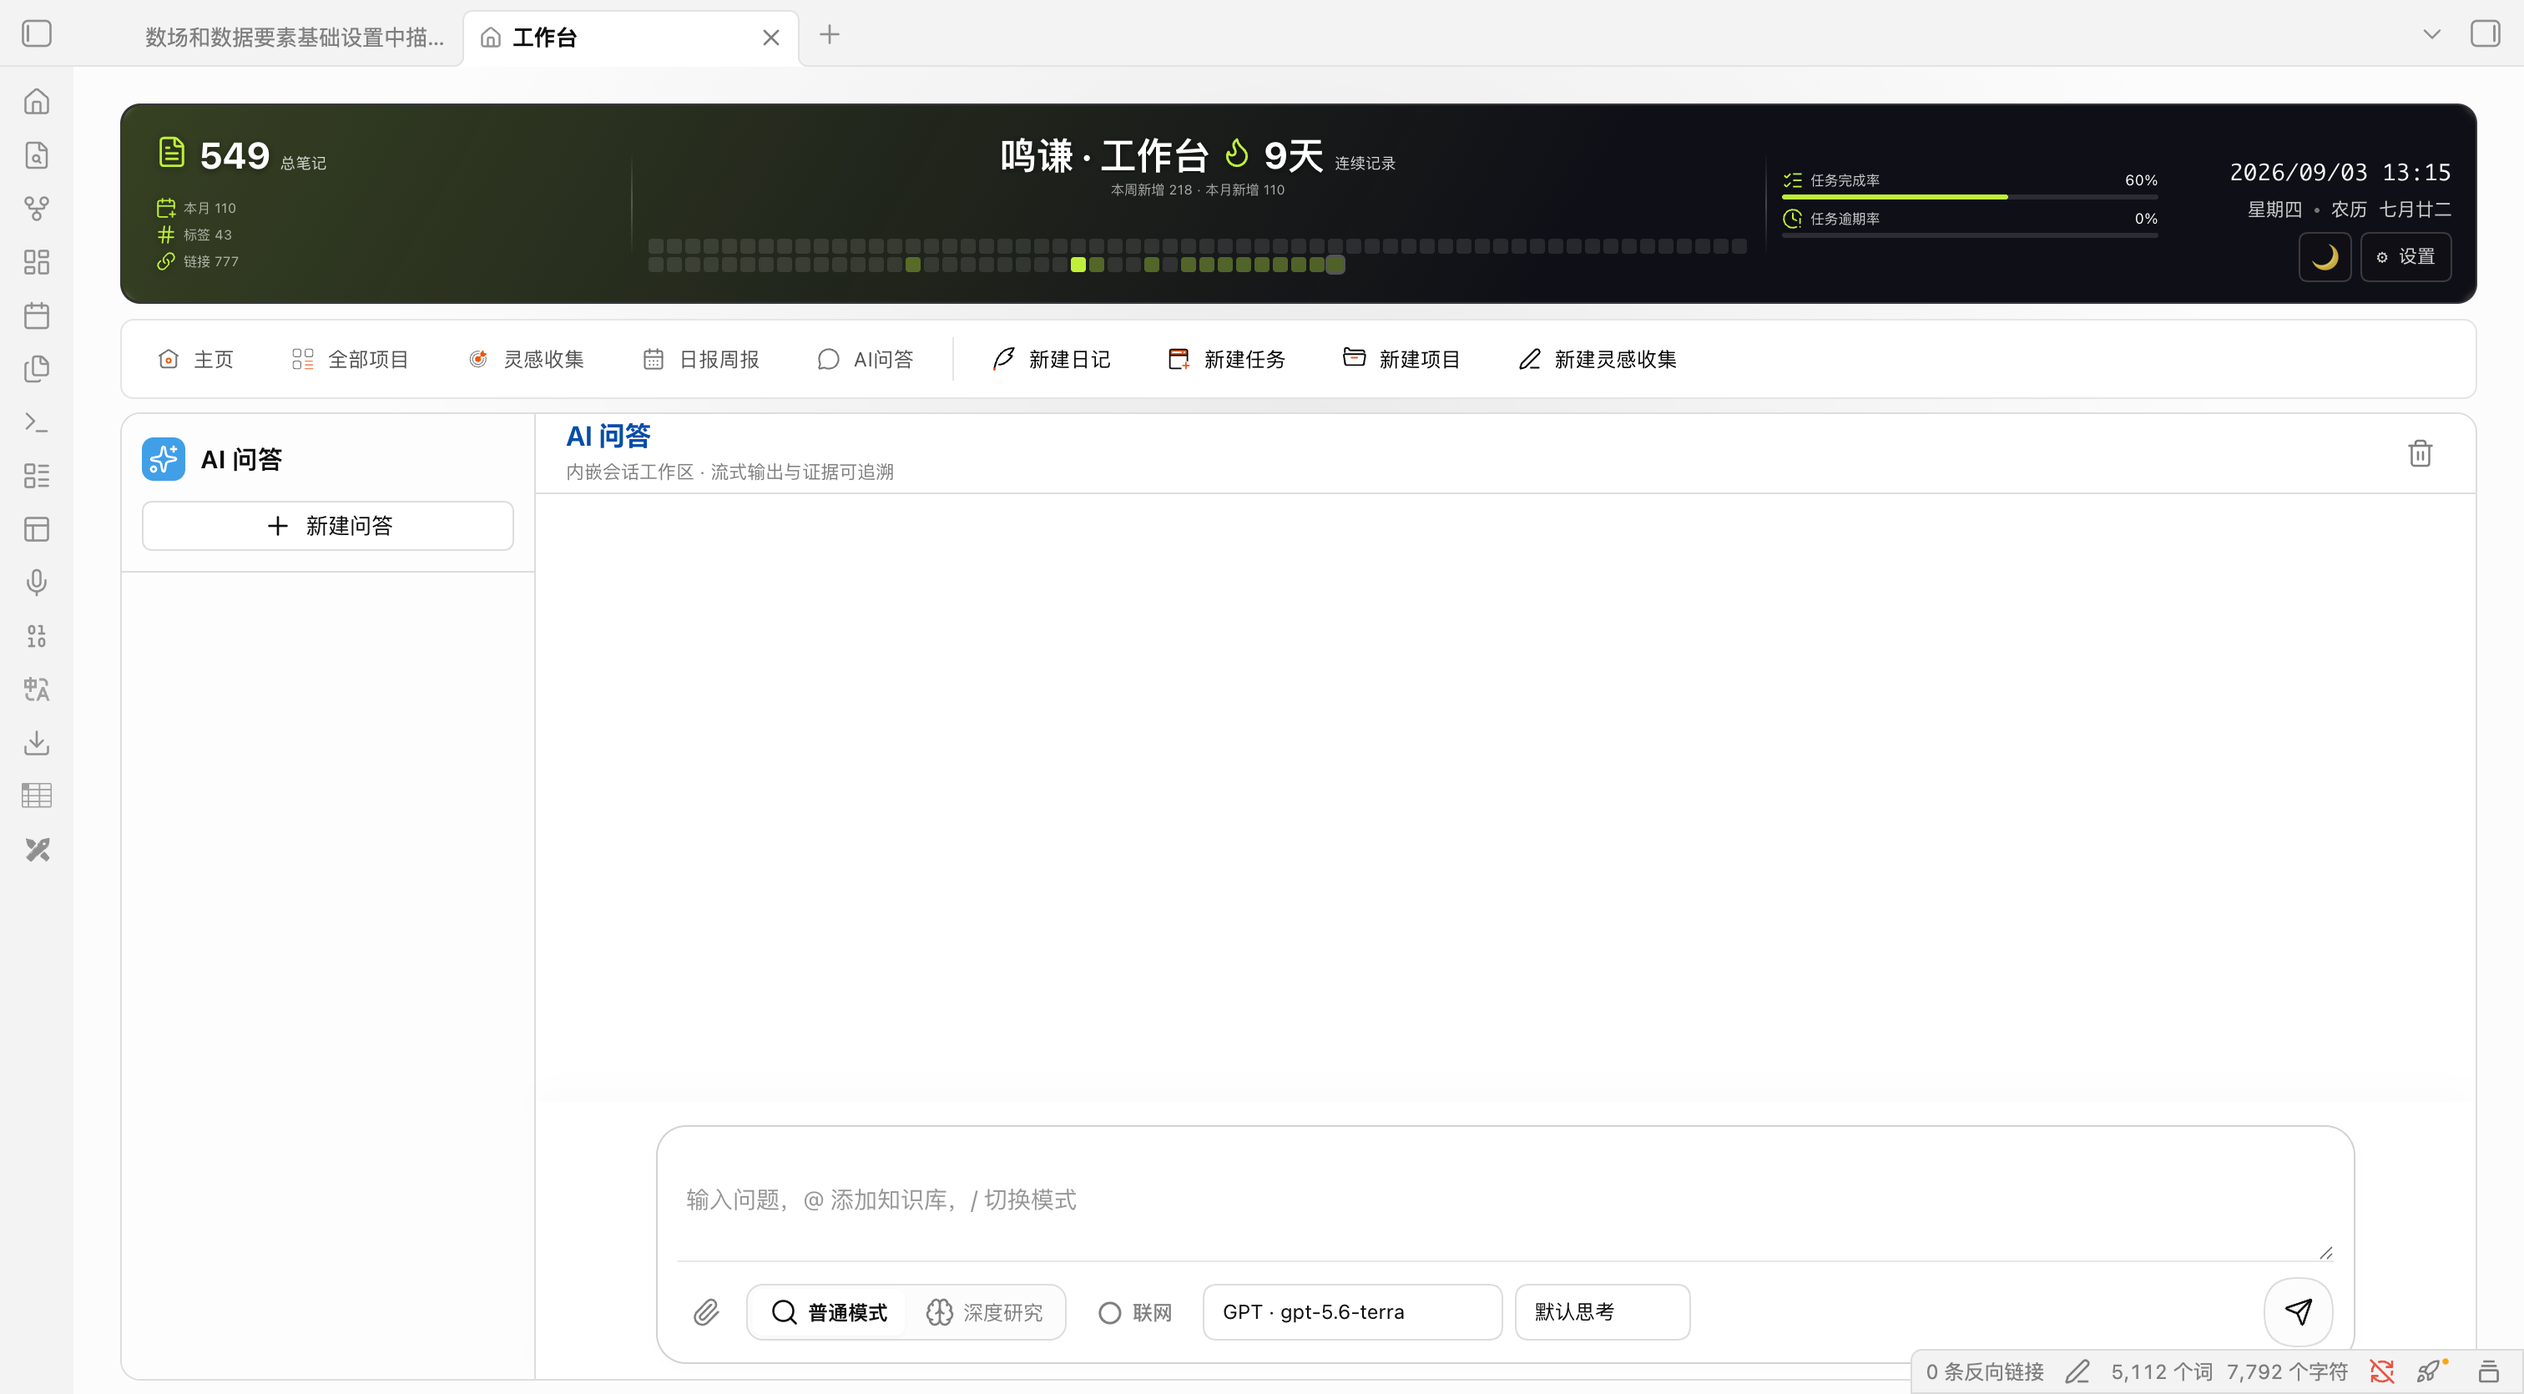
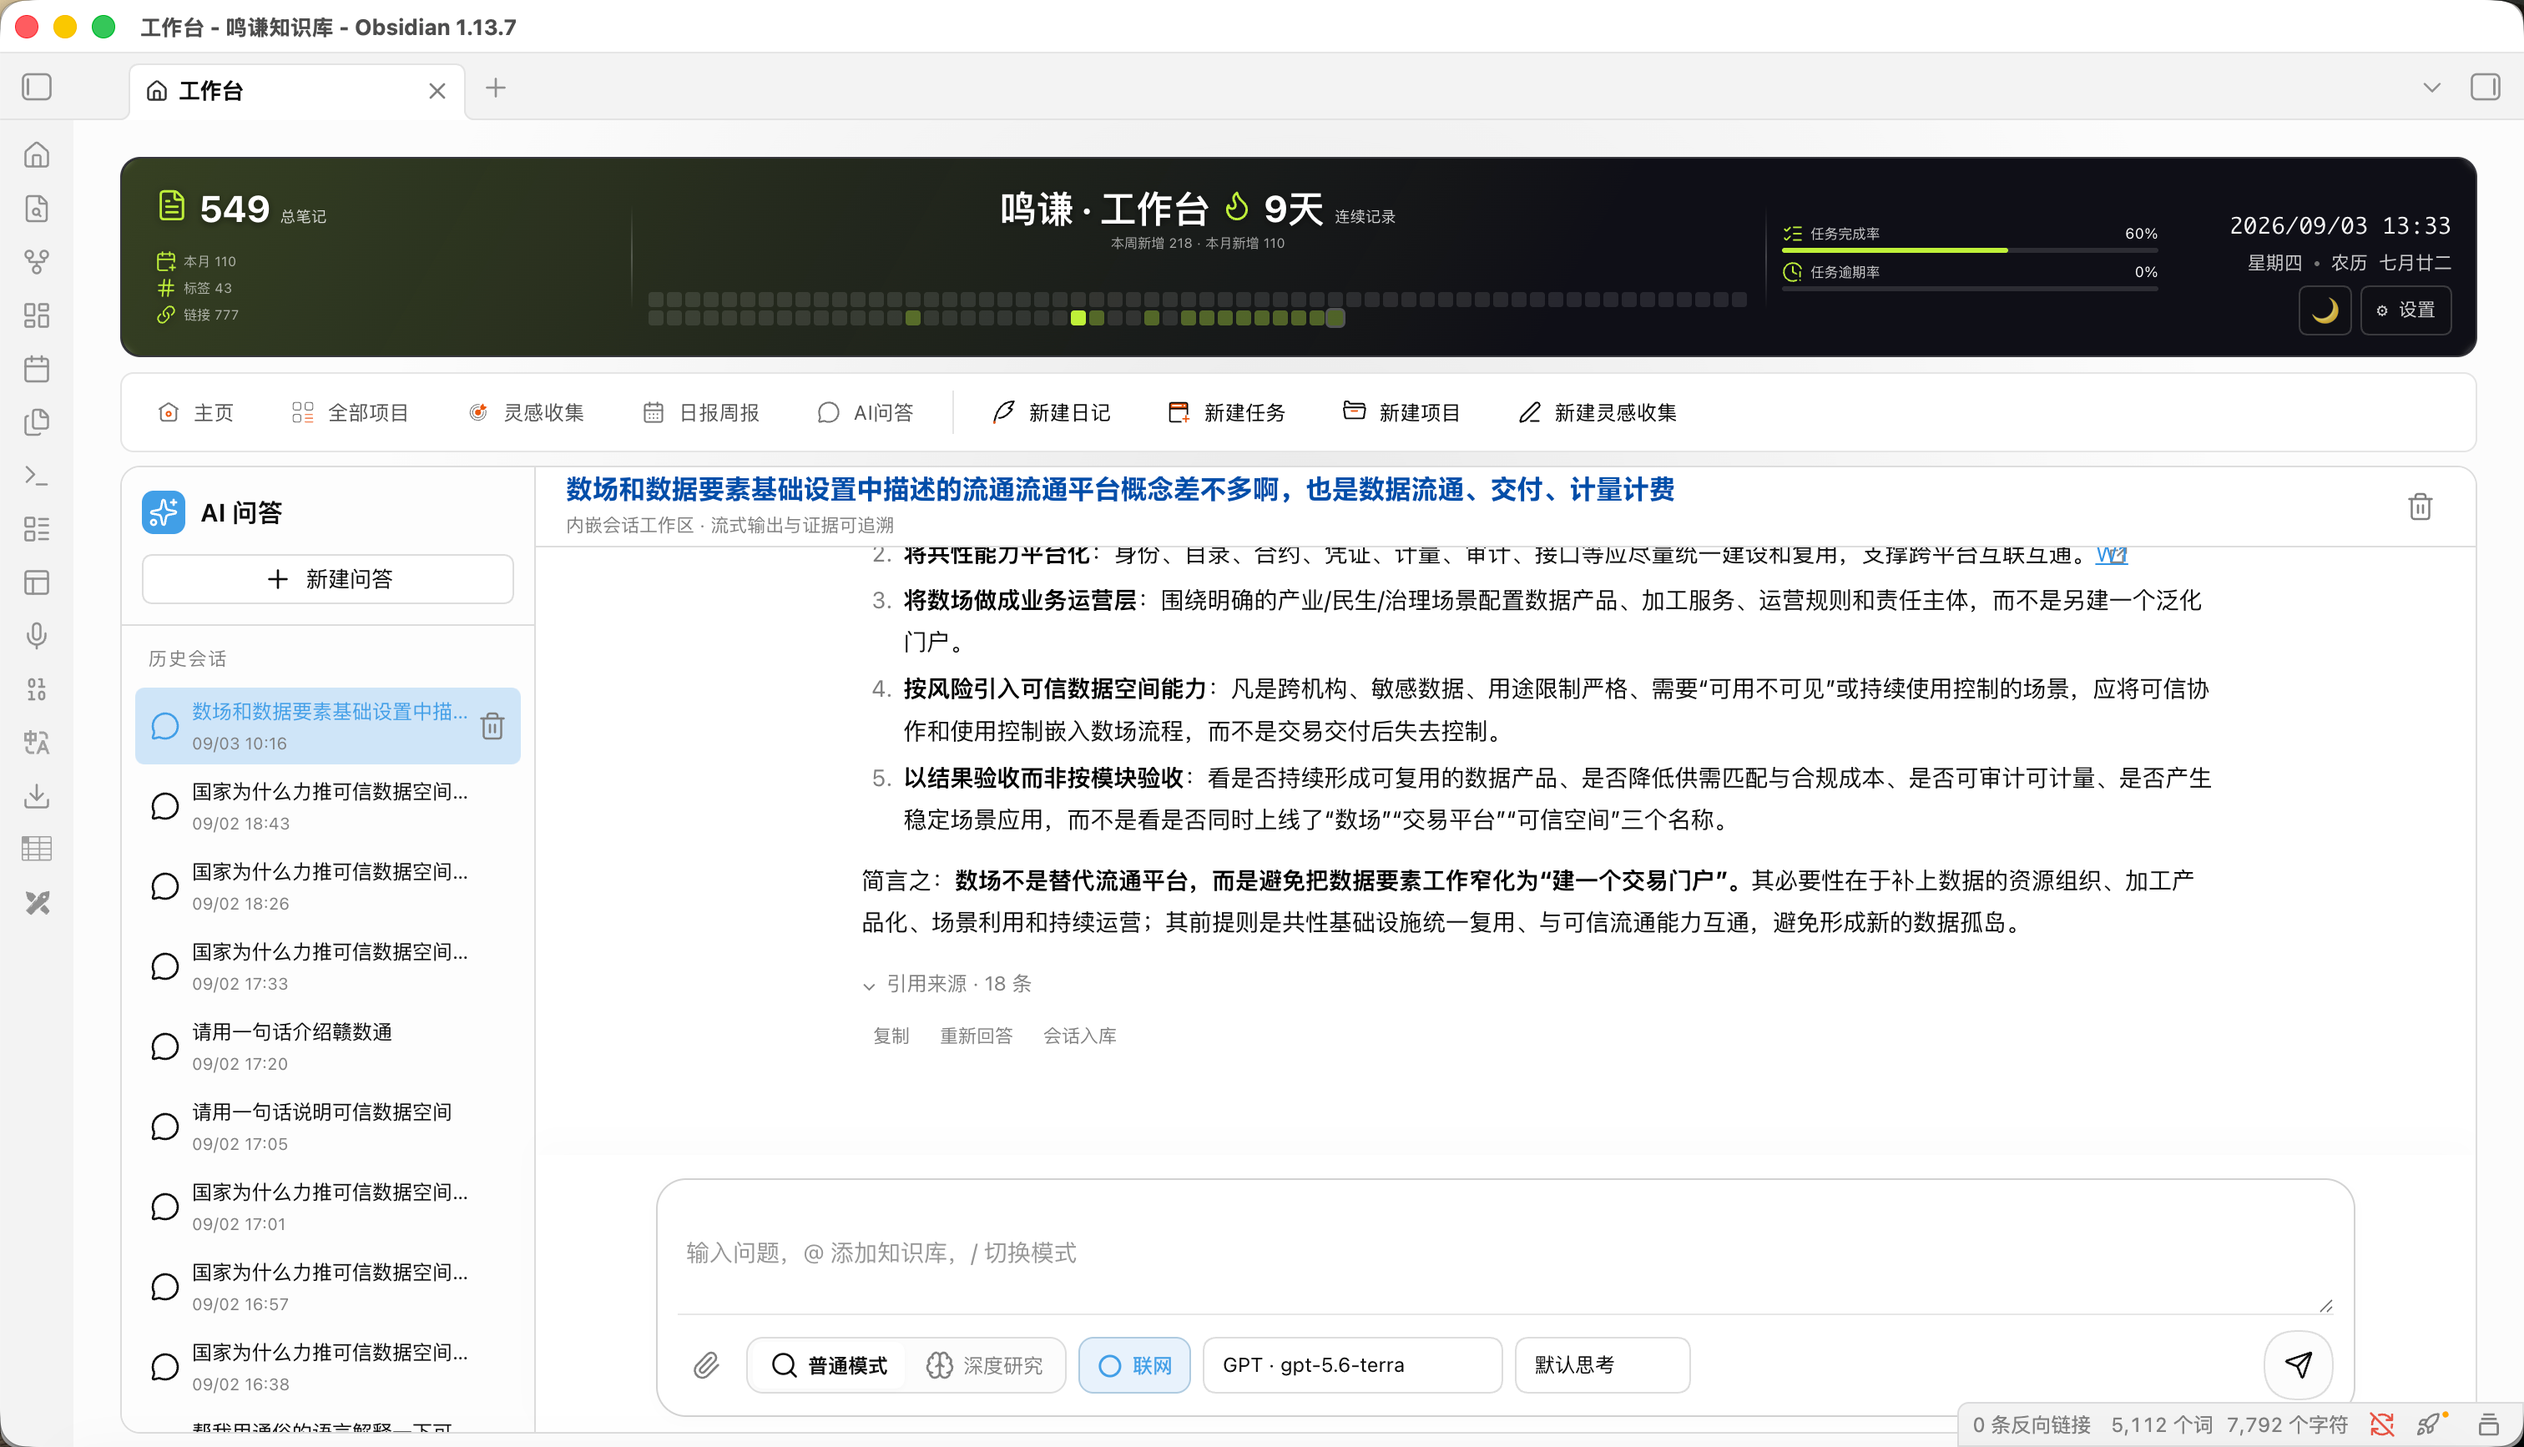
docs: add SAG knowledge integration guide

diff --git a/README.md b/README.md
@@ -65,14 +65,15 @@ Dashboard 是一个 Obsidian 插件：把「任务管理 / 项目管理 / 笔记
 ![AI 问答界面](docs/images/ai-qa.png)
 
 - **会话工作区**：独立的新建、切换与删除会话；问答历史保存在 Vault 的 AI 问答会话目录，可将完成回答一键入库为 Markdown
-- **检索范围**：默认检索本地 Vault Markdown；接入可选的 SAG 知识库 MCP 后，可通过 `@知识库名` 限定来源，也可在未选来源时跨已授权知识库检索
+- **SAG + 本地知识库问答**：接入 [knowledge-SAG](https://github.com/YQing0123/knowledge-SAG) 后，AI 问答会先检索已授权的 SAG 知识库，再检索当前 Vault 的本地 Markdown；模型只根据本轮命中的两类证据整理回答，不把会话历史混入检索证据
+- **检索范围控制**：可通过 `@知识库名` 限定某个 SAG 信源；未指定时搜索已授权的 SAG 信源。本地检索覆盖当前 Vault 中的 Markdown 笔记
 - **普通问答与深度研究**：普通模式用于快速查证；深度研究会执行多轮互补检索。分析型问题至少使用三个检索角度，并在界面中展示处理步骤
-- **证据与引用**：SAG 结果按分块 ID 去重，过滤图片或摄入元数据等不可用内容；回答保留本地、知识库和联网来源，可展开查看原文摘录
+- **证据与引用**：SAG 结果按分块 ID 去重，过滤图片或摄入元数据等不可用内容；回答分别保留 SAG、本地知识库和联网来源，可展开查看原文摘录
 - **联网搜索（可选）**：启用 Firecrawl MCP 后可搜索并抓取网页内容，联网结果会与知识库证据分开标识
 - **模型与流式回答**：支持配置兼容 OpenAI Chat Completions 或 Responses 协议的模型；回答以流式 Markdown 呈现，完成后支持复制和重新回答
 - **附件与输入体验**：可附加最多 8 个文件（单个不超过 15MB），支持粘贴文件；输入框高度会记住，用户问题文本可直接选中复制
 
-> AI 问答不会内置模型密钥或第三方服务。SAG、Firecrawl 和模型供应商均需要在插件设置中单独配置；当外部服务不可用时，仍保留本地 Vault 检索，但无法生成模型回答。
+> AI 问答不会内置模型密钥或第三方服务。SAG 提供检索与可追溯证据，模型提供方负责生成回答；两者均需单独配置。当 SAG 不可用时，插件继续检索本地 Vault；未配置模型时则不会生成回答。
 
 ### 性能与数据一致性
 - 任务扫描支持短时缓存和进行中的扫描复用，避免主页、项目页、日报和统计模块重复遍历 Vault
@@ -84,6 +85,42 @@ Dashboard 是一个 Obsidian 插件：把「任务管理 / 项目管理 / 笔记
 ## 安装
 
 将 `mq-obsidian-dashboard` 文件夹放入 `<你的库>/.obsidian/plugins/` 目录，然后在 Obsidian 命令面板执行 **Reload app without saving**（或重启 Obsidian）即可。
+
+### 接入 SAG 知识库（可选）
+
+本插件通过 [knowledge-SAG](https://github.com/YQing0123/knowledge-SAG) 的 Streamable HTTP MCP 读取已入库资料。SAG 仅负责知识库检索和返回证据；MQ Obsidian Dashboard 使用你配置的模型把 SAG 证据和当前 Vault 笔记一起整理为回答。
+
+1. 获取并启动 SAG：
+
+   ```bash
+   git clone https://github.com/YQing0123/knowledge-SAG.git
+   cd knowledge-SAG
+   docker compose up -d --build
+   ```
+
+   服务启动后打开 `http://localhost:3000`，导入资料并等待其处理完成。默认 MCP 地址为 `http://localhost:8000/mcp/`。
+
+2. 在 SAG Web 中打开 **设置 → 集成 → 知识库 MCP**，创建一个命名的 MCP API Key。该 Key 只会在创建时显示一次；请妥善保存，之后可在 SAG 中撤销。
+
+3. 在 Obsidian 打开 **设置 → MQ Obsidian Dashboard → AI 问答 → MCP 服务 → SAG 知识库**，确认已启用，并填写：
+
+   | 配置项 | 填写内容 |
+   | --- | --- |
+   | 服务地址 | `http://localhost:8000/mcp/` |
+   | 访问令牌 | 第 2 步创建的 SAG MCP API Key |
+   | 启用服务 | 开启 |
+
+   SAG 与 Obsidian 不在同一台机器时，请将服务地址替换为受访问控制的 SAG 地址。不要把默认本地端口直接暴露到公网。
+
+4. 在 **AI 问答** 设置中添加一个兼容 OpenAI Chat Completions 或 OpenAI Responses 的模型提供方，并选择默认模型。模型 API Key 与 SAG MCP Key 均只保存在本机的 Obsidian 安全存储中。
+
+### 使用 AI 问答
+
+1. 从工作台导航点击 **AI 问答**，新建或打开一个会话。
+2. 直接输入问题即可同时检索 SAG 与本地 Vault；输入 `@` 后可选择一个 SAG 知识库，将检索范围限定到该信源。
+3. 需要横向分析时切换到 **深度研究**。插件会执行多轮检索，界面会显示处理步骤与命中数量。
+4. 发送后，回答下方可展开 **引用来源**，查看每条 SAG 或本地笔记证据；SAG 引用可查看检索摘录，本地笔记引用可打开原文。
+5. 完成回答可复制、重新回答，或使用 **会话入库** 保存为 Vault 内的 Markdown 记录。
 
 ## 数据格式
 
